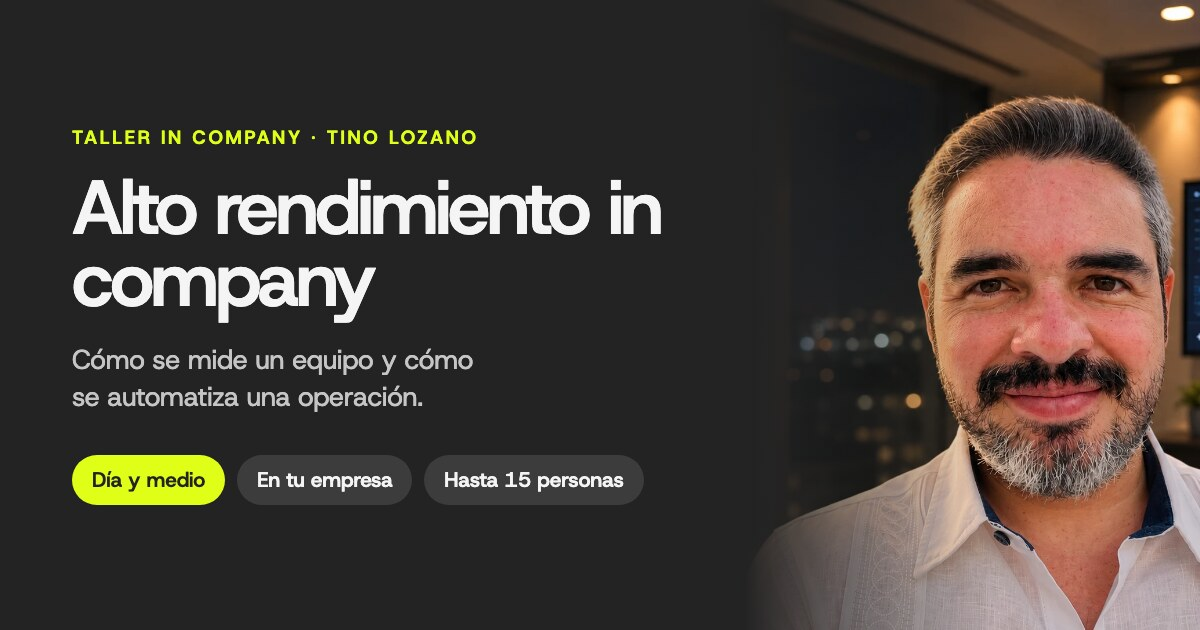
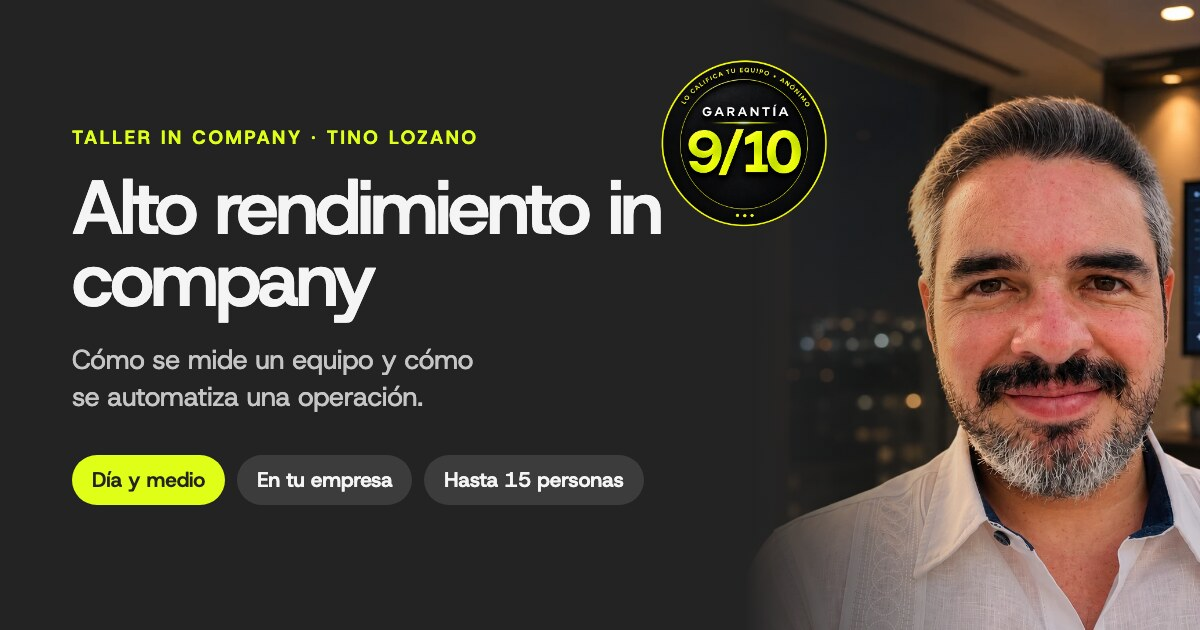
feat(taller): el sello mejorado, y la tarjeta horizontal lo lleva
Entra la version del sello que hizo Agustin en Canva, con relieve y brillo,
y la composicion vertical ya armada con el. La tarjeta horizontal se
regenera con el mismo sello, para que sirva de imagen del producto en
Stripe y de vista previa del enlace con una sola pieza.

Changed region(s): [[0.5242, 0.0905, 0.7092, 0.3619]]

diff --git a/_og-preview.html b/_og-preview.html
@@ -15,7 +15,9 @@ h1{font-size:76px;font-weight:600;line-height:.95;letter-spacing:-.045em;max-wid
 .chip{padding:11px 20px;border-radius:999px;background:rgba(244,244,244,.12);font-size:21px;font-weight:600;letter-spacing:-.01em}
 .chip--lima{background:#dfff18;color:#232323}
 .foto{width:455px;flex:none;position:relative}
+.sello{position:absolute;left:-92px;top:52px;z-index:3;width:184px;height:184px}
 .foto img{width:100%;height:100%;object-fit:cover;object-position:74% 34%}
+.foto img.sello{width:184px;height:184px;object-fit:contain}
 .foto::after{content:"";position:absolute;inset:0;background:linear-gradient(90deg,#232323 0%,rgba(35,35,35,.55) 22%,transparent 55%)}
 </style></head>
 <body>
@@ -31,5 +33,6 @@ h1{font-size:76px;font-weight:600;line-height:.95;letter-spacing:-.045em;max-wid
   </div>
   <div class="foto">
     <img src="imagenes/hero-tino.webp" alt="">
+    <img class="sello" src="imagenes/sello-garantia.png" alt="">
   </div>
 </body></html>
